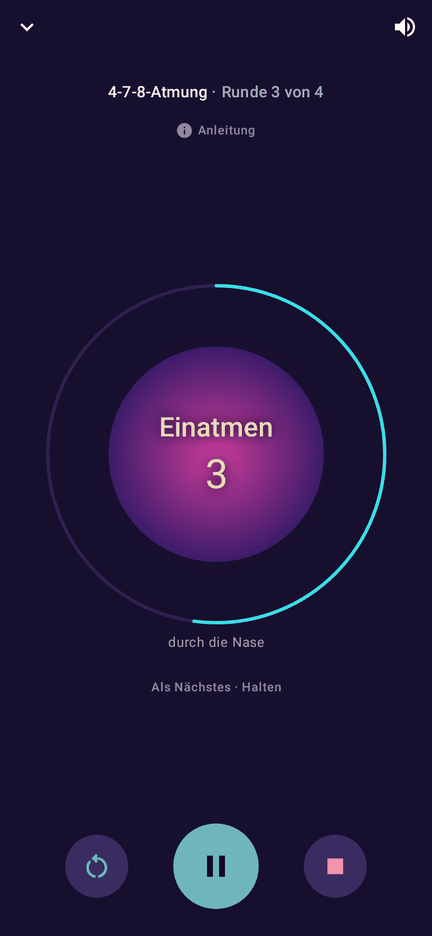
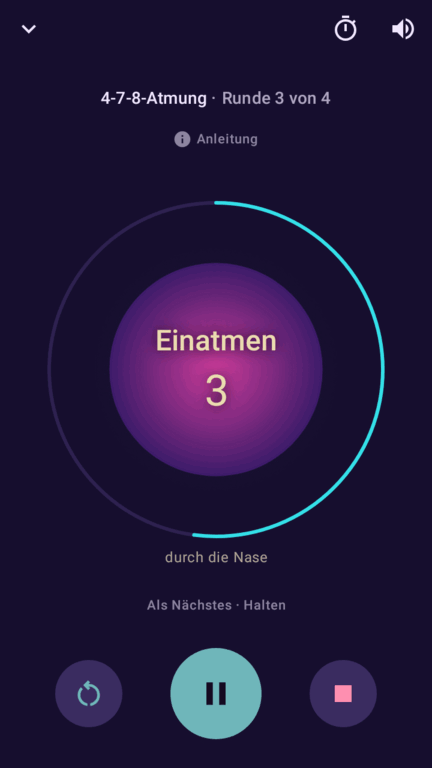
docs: README-Bilder auf den Stand von 2.3.0, Release-Checkliste zur Bildquelle
Die Bilder kommen aus der kompakten Gerätebreite (kompakt360/fs100), seit die
Screenshot-Matrix das A54 nicht mehr in Listenhöhe aufnimmt.

Claude-Session: https://claude.ai/code/session_01H2VGhxbJTSRd9dYHL6wNME

diff --git a/docs/SECURITY.md b/docs/SECURITY.md
@@ -232,7 +232,7 @@ scripts/check-github.sh                              # Soll: Repo-Einstellungen 
 **Ist-Stand (2026-10-19):** Die statischen `sec-*`-Checks laufen in `scripts/check.sh` (Schritt 1). `scripts/verify-apk.sh`, `scripts/check-github.sh` und der CI-Job `release-verify` sind Soll-Setup und gibt es noch nicht; die Schritte nennen dafür den manuellen Ersatz. Bis v1.5.1 waren die Tags nicht annotiert, und der Release-Commit enthielt die Versionsänderung selbst.
 
 1. `git status` leer, `main` gepusht, `scripts/check.sh` grün.
-2. `versionCode` +1, `versionName` gesetzt; Release-Notes `docs/release-notes/vX.Y.Z.md` und Changelog `fastlane/metadata/android/de-DE/changelogs/<versionCode>.txt` geschrieben (SEC-LEGAL-01). Die Notes-Datei enthält nur die Änderungen; SHA-256 und Fingerprint kommen in Schritt 7 dazu. Versionsangaben nachziehen: „Unterstützte Version“ in diesem Dokument, der Stand in `THIRD_PARTY_LICENSES.md` und Markierungen „ab Version X.Y.Z“ in der Datenschutzerklärung. Inhalte nachziehen: `fastlane/metadata/android/de-DE/full_description.txt` (ausführliche Funktionsliste, höchstens 4000 Zeichen), die kurze Funktionsliste im README (je Bereich ein Satz, ohne Versionsmarkierungen; Einzelheiten stehen im Store-Text, Berechtigungen in der Datenschutzerklärung, Toolchain in CONTRIBUTING), Datenschutzerklärung samt Berechtigungstabelle gegen den Code, bei sichtbaren Änderungen die zwei README-Bilder `docs/screenshot-atmen.png` und `docs/screenshot-sitzung.png` (aus den Roborazzi-Bildern `a54/fs100`: `01_atmen`, `09_session_einatmen`, obere Bildschirmhöhe 768 × 1664 px auf 432 × 936 px verkleinert, auf 256 Farben reduziert).
+2. `versionCode` +1, `versionName` gesetzt; Release-Notes `docs/release-notes/vX.Y.Z.md` und Changelog `fastlane/metadata/android/de-DE/changelogs/<versionCode>.txt` geschrieben (SEC-LEGAL-01). Die Notes-Datei enthält nur die Änderungen; SHA-256 und Fingerprint kommen in Schritt 7 dazu. Versionsangaben nachziehen: „Unterstützte Version“ in diesem Dokument, der Stand in `THIRD_PARTY_LICENSES.md` und Markierungen „ab Version X.Y.Z“ in der Datenschutzerklärung. Inhalte nachziehen: `fastlane/metadata/android/de-DE/full_description.txt` (ausführliche Funktionsliste, höchstens 4000 Zeichen), die kurze Funktionsliste im README (je Bereich ein Satz, ohne Versionsmarkierungen; Einzelheiten stehen im Store-Text, Berechtigungen in der Datenschutzerklärung, Toolchain in CONTRIBUTING), Datenschutzerklärung samt Berechtigungstabelle gegen den Code, bei sichtbaren Änderungen die zwei README-Bilder `docs/screenshot-atmen.png` und `docs/screenshot-sitzung.png` (aus den Roborazzi-Bildern `kompakt360/fs100` von `recordRoborazziDebug`: `01_atmen` oben 720 × 1560 px zugeschnitten und auf 432 × 936 px verkleinert, `09_session_einatmen` ganz auf 432 px Breite; beide auf 256 Farben reduziert).
 3. Release-Commit `vX.Y.Z: …` und annotierter Tag `git tag -a vX.Y.Z` gepusht.
 4. Im frischen Worktree des Tags mit JDK 17 bauen: `git worktree add ../atemkraft-rel vX.Y.Z`, dort mit `ATEMKRAFT_KEYSTORE_PROPERTIES=<pfad>` (`storeFile` absolut oder relativ zur Properties-Datei) `scripts/build.sh clean assembleRelease`; Signatur-Geheimnisse nach SEC-BUILD-02. Fehlt der Key, entsteht nur eine unsignierte APK (Warnung), die Schritt 5 abfängt.
 5. `scripts/verify-apk.sh <apk> --tag vX.Y.Z` grün. Mindestens: `apksigner verify --print-certs` zeigt `75022def…1890`, **Abbruch bei unsignierter APK oder `CN=Android Debug`**. Solange das Skript fehlt: `$ANDROID_HOME/build-tools/<version>/apksigner verify --print-certs <apk>` muss `Signer #1 certificate DN: CN=grenzenloseSchublade, O=Atemkraft` und `Signer #1 certificate SHA-256 digest: 75022defe65aa24e223f3e79880f09f423456757002ff0b33ba2ae29b9f41890` zeigen.

diff --git a/README.md b/README.md
@@ -5,7 +5,7 @@ Android-App für Atemübungen und stille Meditation. Ein mitatmender Kreis, Tön
 Ohne Konto, ohne Werbung, ohne Tracking; offline bis auf den optionalen Download einer Sprachstimme. Atemkraft ist eine Wellness-App und kein Medizinprodukt; sie ersetzt keinen Rat von Ärztin, Arzt oder anderem Fachpersonal.
 
 <p>
-  <img src="docs/screenshot-atmen.png" width="200" alt="Tab Atmen: Muster des Tages und Liste der Atemübungen">
+  <img src="docs/screenshot-atmen.png" width="200" alt="Tab Atmen: Muster des Tages, Suche „Wie fühlst du dich?“ mit Anlässen als Chips und Liste der Atemübungen">
   <img src="docs/screenshot-sitzung.png" width="200" alt="Laufende Sitzung: Atemkreis mit „Einatmen“, Sekunden und Fortschrittsbogen">
 </p>
 
